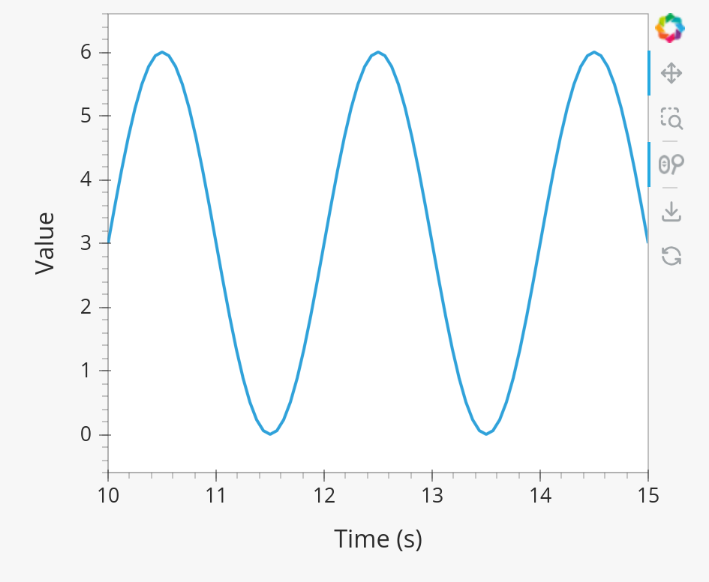
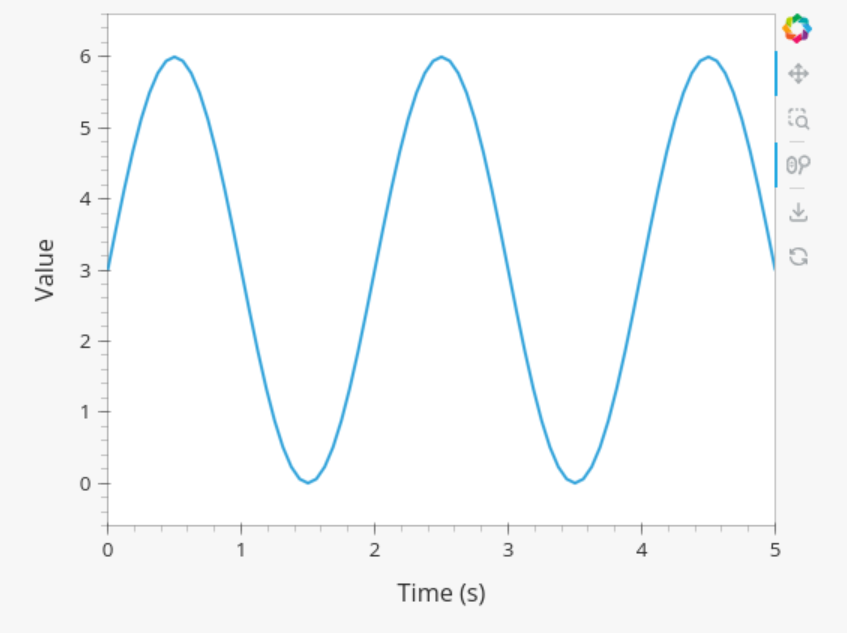
clarify docs after feedback Maarten

diff --git a/docs/source/training/training.rst b/docs/source/training/training.rst
@@ -32,7 +32,7 @@ Exercise 1a: Creating a new waveform
 .. md-tab-set::
    .. md-tab-item:: Exercise
 
-      In order to start editing waveforms, you must first learn how to navigate your way around
+      In order to start editing waveforms, you must first learn how to navigate your way
       around the GUI. Launch the Waveform Editor GUI using the following command, 
       which opens the Waveform Editor in your default browser.
 
@@ -88,12 +88,12 @@ Exercise 1b: Creating a sine wave
       a single sine-wave tendency, with the following parameters:
 
       - Type: sine
-      - Duration: from 10 to 15 seconds
+      - Duration: 5 seconds
       - Frequency: 0.5 Hz
       - Amplitude: 3
-      - Vertical range: 0 to 6
+      - A base offset of 3
 
-      Use the following tendency parameters: ``type``, ``start``, ``end``, ``frequency``, ``amplitude``, and ``base``.
+      Use the following tendency parameters: ``type``, ``duration``, ``frequency``, ``amplitude``, and ``base``.
 
       .. hint::
          Detailed descriptions of the tendencies can be found :ref:`here <available-tendencies>`.
@@ -104,7 +104,7 @@ Exercise 1b: Creating a sine wave
 
       .. code-block:: yaml
 
-         - {type: sine, start: 10, end: 15, frequency: 0.5, amplitude: 3, base: 3}
+         - {type: sine, duration: 5, frequency: 0.5, amplitude: 3, base: 3}
 
       You should see the following waveform:
 
@@ -136,11 +136,11 @@ Exercise 1d: Creating a sine wave - part 3
 .. md-tab-set::
    .. md-tab-item:: Exercise
 
-      What happens if you overdetermine your waveform? For example, try setting both
+      What happens if you overdetermine your waveform? For example, set both
       the frequency, as well as the period of the sine wave:
       ``frequency: 0.5`` and ``period: 2``
 
-      And what happens if frequency and period would result in a different sine wave? For example, try setting 
+      And what happens if frequency and period would result in a different sine wave? For example, set
       ``frequency: 2`` and ``period: 2``? 
 
 
@@ -182,8 +182,8 @@ Exercise 2a: Creating a Plasma Current
       a single pulse. Create a waveform called ``equilibrium/time_slice/global_quantities/ip``, 
       which has the following shape:
       
-      1. A linear ramp up from 0 to 1.5e7 A, in a duration of 100 seconds (use tendency type: ``linear``).
-      2. A flat-top at 1.5e7 A, held for 400 seconds (use tendency type: ``constant``).
+      1. A linear ramp up from 0 to 15e6 A, in a duration of 100 seconds (use tendency type: ``linear``).
+      2. A flat-top at 15e6 A, held for 400 seconds (use tendency type: ``constant``).
       3. A ramp down back to 0 A, in a duration of 200 seconds (use tendency type: ``linear``).
 
    .. md-tab-item:: Solution
@@ -192,9 +192,9 @@ Exercise 2a: Creating a Plasma Current
 
       .. code-block:: yaml
 
-         - {type: linear, from: 0, to: 1.5e7, start: 0, duration: 100}
-         - {type: constant, value: 1.5e7, start: 100, duration: 400}
-         - {type: linear, from: 1.5e7, to: 0, start: 500, duration: 200}
+         - {type: linear, from: 0, to: 15e6, start: 0, duration: 100}
+         - {type: constant, value: 15e6, start: 100, duration: 400}
+         - {type: linear, from: 15e6, to: 0, start: 500, duration: 200}
 
       You should see the following waveform:
       
@@ -219,7 +219,7 @@ Exercise 2b: Shortform notation
       #. If no tendency ``type`` is provided, it will be considered a linear tendency by default.
       #. If no start value e.g. ``from`` is provided, it will try to match end of previous tendency.
 
-      Try to replicate the waveform in the previous exercise using this shortform notation.
+      Replicate the waveform in the previous exercise using this shortform notation.
 
    .. md-tab-item:: Solution
    
@@ -235,7 +235,7 @@ Exercise 2b: Shortform notation
       
       .. code-block:: yaml
 
-         - {to: 1.5e7, duration: 100}
+         - {to: 15e6, duration: 100}
          - {duration: 400}
          - {to: 0, duration: 200}
 
@@ -289,14 +289,11 @@ Exercise 3b: Smoothing
          - {type: smooth, duration: 1}
          - {type: linear, from: 2.5, rate: 0.25, duration: 3}
 
-      .. image:: ../images/training/smooth.png
-         :align: center
-
       You should see the following waveform. Notice how the smooth tendencies ensure 
       continuous value and derivative across multiple tendencies.
 
-
-
+      .. image:: ../images/training/smooth.png
+         :align: center
 
 Exercise 3c: Repeating Waveforms
 ^^^^^^^^^^^^^^^^^^^^^^^^^^^^^^^^
@@ -306,29 +303,29 @@ Exercise 3c: Repeating Waveforms
 
       You can create repeating patterns using the ``repeat`` tendency. This tendency 
       allows you to specify the ``waveform`` parameter, here you can provide a list of 
-      tendencies that will be repeated.
+      tendencies that will be repeated for a length of time.
 
-      Copy the tendency list from the previous exercise use a ``repeat`` tendency to make it repeat three times.
-      Ensure that the end of the linear tendency and the start of the piecewise tendency also smoothly 
-      transition into each other, in 1 second.
+      Copy the tendency list given below and use a ``repeat`` tendency to make it repeat three times.
 
+      .. code-block:: yaml
+
+        - {type: linear, from: 2.5, rate: 0.25, duration: 3}
+        - {type: smooth, duration: 2}
+
+      .. hint:: See the repeat tendency :ref:`documentation <repeat-tendency>`.
    .. md-tab-item:: Solution
 
-      A smooth tendency was added as a last tendency to smoothly transition from the 
-      linear tendency back into the piecewise linear tendency. This whole waveform is 
-      placed in the ``waveform`` parameter of the repeat tendency. Since the tendencies
-      combine up to a total length of 11 (6+1+3+1), the total ``duration`` of the repeat
-      tendency is set to 33, to obtain three full cycles.
+      The provided tendency list can be placed as is in the ``waveform`` parameter of the repeat tendency. 
+      Since the tendencies combine up to a total length of 5, the total ``duration`` of the repeat
+      tendency is set to 15, to obtain three full cycles.
 
       .. code-block:: yaml
 
          - type: repeat
-           duration: 33
+           duration: 15
            waveform:
-           - {type: piecewise, time: [0, 2, 3, 5, 6], value: [2.5, 3, 1, 3, 2]}
-           - {type: smooth, duration: 1}
            - {type: linear, from: 2.5, rate: 0.25, duration: 3}
-           - {type: smooth, duration: 1}
+           - {type: smooth, duration: 2}
 
       You should see the following waveform:
 
@@ -442,12 +439,6 @@ Exporting Waveforms
 
 In this exercise you will learn how to export waveform configurations.
 
-.. warning:: In this section it is suggested to use ``imas print`` to quickly inspect
-   the exported IDSs. To use this, it is required to have the 
-   `imas-core <https://git.iter.org/projects/IMAS/repos/al-core/browse>`_ package 
-   (locked behind ITER login wall) installed. 
-   If you do not have this installed, you can manually inspect the exported IDSs.
-
 Exercise 5a: Exporting from the UI
 ^^^^^^^^^^^^^^^^^^^^^^^^^^^^^^^^^^
 
@@ -459,8 +450,9 @@ Exercise 5a: Exporting from the UI
       Load this configuration into the Waveform Editor, if you are unsure how to, have a look 
       at the instructions :ref:`here <gui>`.
 
-      We will export our EC beam power values to an ec_launchers IDS. Export the configuration
-      to a NetCDF file. Sample the time such that there are 20 points in the range from 0 to 800s.
+      We will export our EC beam power values to an ec_launchers IDS, and store it using a IMAS NetCDF file.
+      You can export to a NetCDF file by providing the URI in the following format: ``path/to/file.nc``.
+      Sample the time such that there are 20 points in the range from 0 to 800s.
 
       Inspect the exported IDS using ``imas print <your URI> ec_launchers``, which 
       quantities are filled? Notice that the waveform in the configuration runs from 0 to 700s,
@@ -473,7 +465,7 @@ Exercise 5a: Exporting from the UI
    .. md-tab-item:: Configuration
 
       If you forgot to save the configuration of exercise 4a, copy the following YAML file,
-      and store it to disk.
+      and store it to disk and load it back into the waveform editor.
 
 
       .. code-block:: yaml
@@ -501,7 +493,7 @@ Exercise 5a: Exporting from the UI
       Any values which are outside of the defined waveform range (e.g. values later than 700s)
       will be set to 0.
 
-      .. code-block:: bash
+      .. code-block:: text
 
          ec_launchers
          ├── ids_properties
@@ -551,13 +543,13 @@ Exercise 5b: Exporting different Data Dictionary versions
 
       Repeat the previous exercise, but this time, before exporting change the data dictionary 
       version to **3.42.0** in the `Edit Global Properties` tab, and save the configuration.
-      Ensure you enter a different from previous exercise. Again, print the IDS in your terminal, what has changed?
+      Ensure you enter a different data dictionary version from previous exercise. Again, print the IDS in your terminal, what has changed?
 
    .. md-tab-item:: Solution
 
       You should see that the data dictionary version of the IDS has changed to '3.42.0':
 
-      .. code-block:: bash
+      .. code-block:: text
 
          ec_launchers
          ├── ids_properties
@@ -574,7 +566,7 @@ Exercise 5c: Exporting from the CLI
 .. md-tab-set::
    .. md-tab-item:: Exercise
 
-      You can also export a configuration using the CLI. Try exporting your configuration
+      You can also export a configuration using the CLI. Export your configuration
       using the same settings with the CLI command. Print the IDS afterwards, is it the 
       same as before?
 
@@ -593,7 +585,7 @@ Exercise 5c: Exporting from the CLI
 
       Export the configuration using:
 
-      .. code-block:: bash
+      .. code-block:: text
 
          waveform-editor export-ids <example YAML> <your URI> --linspace 0,800,20
 
@@ -606,9 +598,16 @@ Plasma Shape Editor
 
 In this section you will learn how to use the plasma shape editor. For this section 
 it is required to have installed the :ref:`dependencies for the Plasma Shape Editor <shape_editor_install>`.
+If you already have already built NICE inverse before (for example, if you followed the PDS training), 
+you can use this instead.
+
 Detailed information about the plasma shape editor can be found in :ref:`the documentation <plasma_shape_editor>`.
 If you are on SDCC, ensure the following modules are loaded, which are required to run NICE.
 
+
+.. code-block:: bash
+
+   module load IMAS-Python SuiteSparse/7.7.0-intel-2023b libxml2 Blitz++ MUSCLE3
 
 Exercise 6a: Setting up NICE
 ^^^^^^^^^^^^^^^^^^^^^^^^^^^^
@@ -617,15 +616,11 @@ The plasma shape editor is a graphical environment in which you can design a spe
 and use an equilibrium solver, such as NICE, to obtain the coil currents required to obtain
 this plasma shape.
 
-.. code-block:: bash
-
-   module load IMAS-Python SuiteSparse/7.7.0-intel-2023b libxml2 Blitz++ MUSCLE3
-
 .. md-tab-set::
    .. md-tab-item:: Exercise
 
       Open the tab ``Plasma Shape Editor`` in the Waveform Editor GUI. 
-      You should see an empty plotting window on your left, and an options menu on your right.
+      You should see an empty plotting window on your left, and an options panels on your right.
       NICE requires configuration to be set. 
 
       1. Set the executable paths for the NICE inverse and direct mode. These should point
@@ -677,19 +672,21 @@ Exercise 6b: Running NICE inverse
       - Characteristics of the vacuum toroidal field; R0 and B0
       - p' and ff' profiles
 
-      First, open the ``Plasma Shape`` options menu, set it to ``parameterized``, and
+      First, open the ``Plasma Shape`` options panel, set it to ``parameterized``, and
       leave the shape settings on theirs defaults for now.
 
-      Secondly, open the ``Plasma Properties`` options menu, and set it to the ``Manual`` option. 
+      Secondly, open the ``Plasma Properties`` options panel, and set it to the ``Manual`` option. 
       Leave the values at its default for now. This will set the plasma current, R0 and B0, and the ff' and p' profiles
       through :ref:`a parameterisation <abg_parameterisation>` using the alpha, beta, and gamma parameters. Leave the values
       at default for now.
 
       You should now have set up enough to run NICE inverse mode, which you can verify by
-      checking that there are no more ⚠ icons besides the option menus, and that the ``Run`` button is enabled.
+      checking that there are no more ⚠ icons besides the option panels, and that the ``Run`` button is enabled.
+
+      Run NICE by selecting the ``Run`` button.
 
       What do you see in the plot on the left? What happens if you hover your mouse over the 
-      coil outlines? Try playing with the settings in the ``Plotting Parameters`` menu. What do they do?
+      coil outlines? Change some of the parameters in the ``Plotting Parameters`` option panel. What do they do?
 
 
    .. md-tab-item:: Solution
@@ -721,18 +718,18 @@ Exercise 6c: Configurating the Plasma Shape
       2. By providing a geometric parameterization.
       3. By providing gap distances for an equilibrium IDS containing `boundary gaps <https://imas-data-dictionary.readthedocs.io/en/latest/generated/ids/equilibrium.html#equilibrium-time_slice-boundary-gap>`_.
       
-      We will try out the first two methods in this exercise.
+      We will cover the first two methods in this exercise.
 
       1. Select the ``Equilibrium IDS outline`` option. 
-         Try to provide an outline from an equilibrium IDS, for example by using the URI below
-         if you are on SDCC. Try to visualize the boundary outline of the time steps at 200s and 251s, 
-         do you see a difference? Try running both cases, what happens in each case?
+         Provide an outline from an equilibrium IDS, for example by using the URI below
+         if you are on SDCC. Visualize the boundary outline of the time steps at 200s and 251s, 
+         do you see a difference? Run NICE inverse for both time steps, what happens in each case?
 
          .. code-block:: bash
 
             imas:hdf5?path=/home/ITER/blokhus/public/imasdb/ITER/4/666666/3
-      2. Select the ``Parameterized`` option, and try changing some of the 
-         sliders to change the shape to your desired shape. Try running NICE in inverse mode, does it converge?
+      2. Select the ``Parameterized`` option, and update some of the 
+         parameter sliders to change your desired shape. Run NICE in inverse mode, does it converge?
 
    .. md-tab-item:: Solution
       
@@ -760,9 +757,9 @@ Exercise 6d: Fixing Coil Currents
       By default, NICE is able to freely change all coil currents to achieve the desired
       plasma shape. It is possible, however, you fix any of the coils to a specific value,
       and NICE will try to achieve your desired plasma shape by varying the unfixed coil
-      currents. This is possible to do in the ``Coil Currents`` menu. 
+      currents. You can do this in the ``Coil Currents`` panel.
 
-      Load the plasma outline from previous exercise using the given IDS. Try setting
+      Load the plasma outline from previous exercise using the given IDS. Set
       the currents of PF2 and PF5 to 25000A and 15000A respectively, and enable the checkbox
       to fix the current. The sliders will update with the resulting coil currents after
       NICE inverse converges. 
